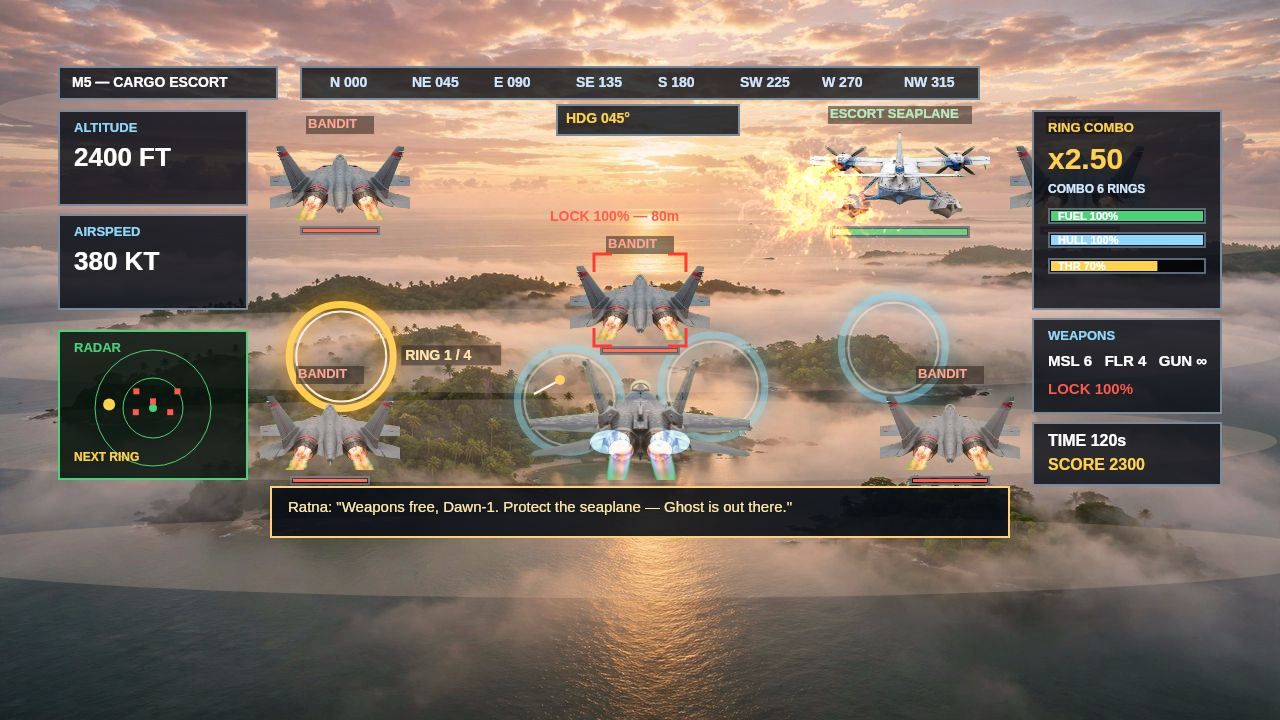
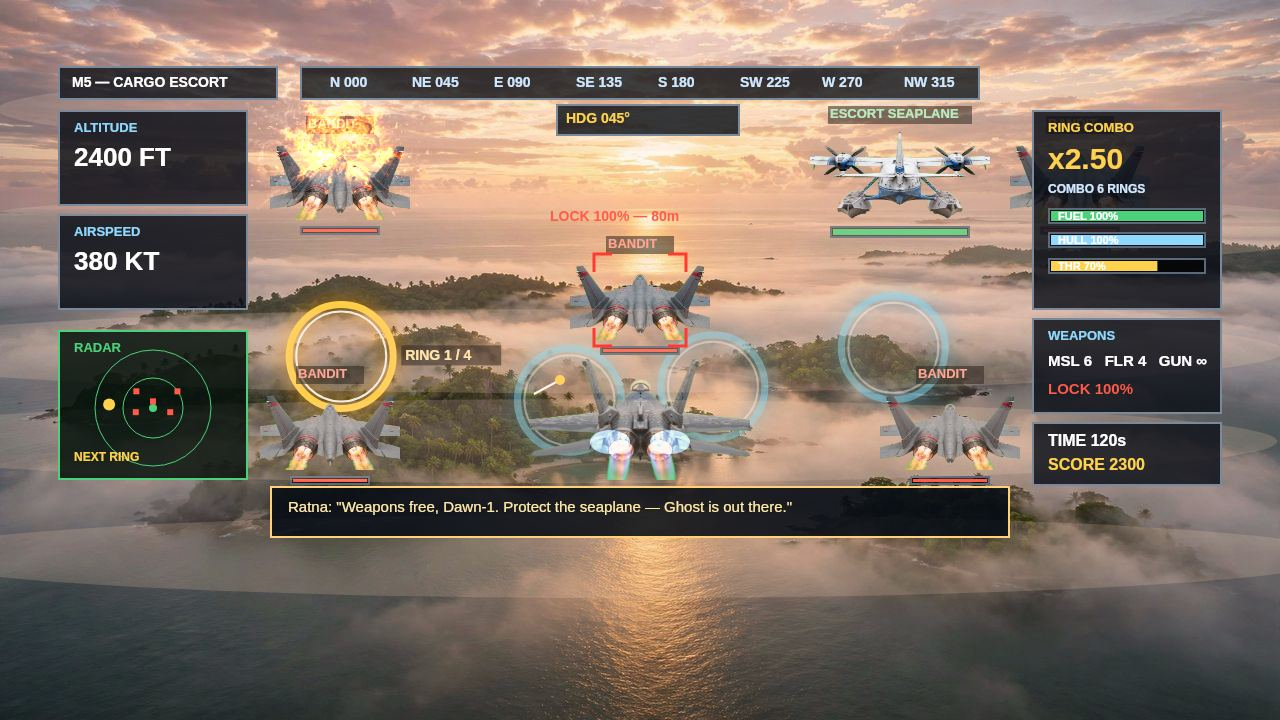
DAWN FALCON — surgical fix: fill mission-map void (route map + pilot log + next-leg weather); move shot-3 explosion onto the destroyed top-left bandit, clear of the escort seaplane

Changed region(s): [[0.5938, 0.2139, 0.6875, 0.3667], [0.2188, 0.1222, 0.3125, 0.275]]

diff --git a/game/src/render.js b/game/src/render.js
@@ -249,6 +249,27 @@
       txt(ctx, '   ' + m.weather, 528, 162 + i * 34, 12, '#8fa8ba', 'left', false);
     });
     txt(ctx, 'Press 1-6 for briefing. B — buy selected upgrade.', 528, 140 + 6 * 34 + 6, 13, '#cfe8ff', 'left', false);
+    // --- fills the mission-map void: route map + pilot log + next-leg weather ---
+    ctx.fillStyle = 'rgba(143,216,255,0.35)'; ctx.fillRect(528, 368, 324, 2);
+    txt(ctx, 'ROUTE MAP — ISLAND CHAIN', 528, 376, 13, '#ffd24d', 'left', true);
+    var stops = [[545, 420], [605, 406], [665, 422], [725, 408], [785, 424], [845, 410]];
+    ctx.strokeStyle = '#8fd8ff'; ctx.lineWidth = 2;
+    ctx.beginPath(); ctx.moveTo(stops[0][0], stops[0][1]);
+    for (var si = 1; si < 6; si++) ctx.lineTo(stops[si][0], stops[si][1]);
+    ctx.stroke();
+    stops.forEach(function (p, i) {
+      ctx.fillStyle = i === state.selectedMission ? '#ffd24d' : '#8fd8ff';
+      ctx.beginPath(); ctx.arc(p[0], p[1], i === state.selectedMission ? 8 : 6, 0, Math.PI * 2); ctx.fill();
+      if (i === state.selectedMission) { ctx.strokeStyle = '#ffd24d'; ctx.lineWidth = 2; ctx.beginPath(); ctx.arc(p[0], p[1], 12, 0, Math.PI * 2); ctx.stroke(); }
+      txt(ctx, Dawn.MISSIONS[i].code, p[0], 434, 11, '#cfe8ff', 'center', true);
+    });
+    txt(ctx, 'PILOT LOG — LAST 3 SORTIES', 528, 452, 12, '#8fd8ff', 'left', true);
+    [4, 3, 2].forEach(function (mi, k) {
+      txt(ctx, Dawn.MISSIONS[mi].code + ' ' + Dawn.MISSIONS[mi].name + ' — ' + (state.grades[mi] || '—') + ' — ' + (state.scores[mi] || 0) + ' pts', 528, 468 + k * 15, 12, '#fff', 'left', false);
+    });
+    var nm = Dawn.MISSIONS[state.selectedMission];
+    txt(ctx, 'NEXT LEG — ' + nm.code + ' ' + nm.name, 528, 518, 12, '#ffd24d', 'left', true);
+    txt(ctx, nm.weather + '  •  ' + nm.time + 's  •  ' + nm.reward + ' cr reward', 528, 534, 12, '#cfe8ff', 'left', false);
     panel(ctx, 900, 100, 340, 460, 'UPGRADES — 7');
     Dawn.UPGRADES.forEach(function (u, i) {
       var lv = state.upgrades[u.id] || 0;

diff --git a/game/src/shots.js b/game/src/shots.js
@@ -22,7 +22,7 @@
     }
     if (opts.enemyPos) f.enemies.forEach(function (e, i) { if (opts.enemyPos[i]) { e.x = opts.enemyPos[i][0]; e.y = opts.enemyPos[i][1]; } });
     if (opts.escortPos && f.escort) { f.escort.x = opts.escortPos[0]; f.escort.y = opts.escortPos[1]; }
-    if (opts.explosion) f.explosions.push({ x: 820, y: 240, t: 0.4, big: false });
+    if (opts.explosion) f.explosions.push({ x: 340, y: 180, t: 0.4, big: false }); // destroyed top-left bandit — far from the escort seaplane (900,170)
     if (opts.ghost) { f.enemies.forEach(function (e) { e.x = 700; e.y = 260; }); }
     s.dialogue = opts.dialogue || s.dialogue;
     s.screen = 'flight'; s.paused = false;
